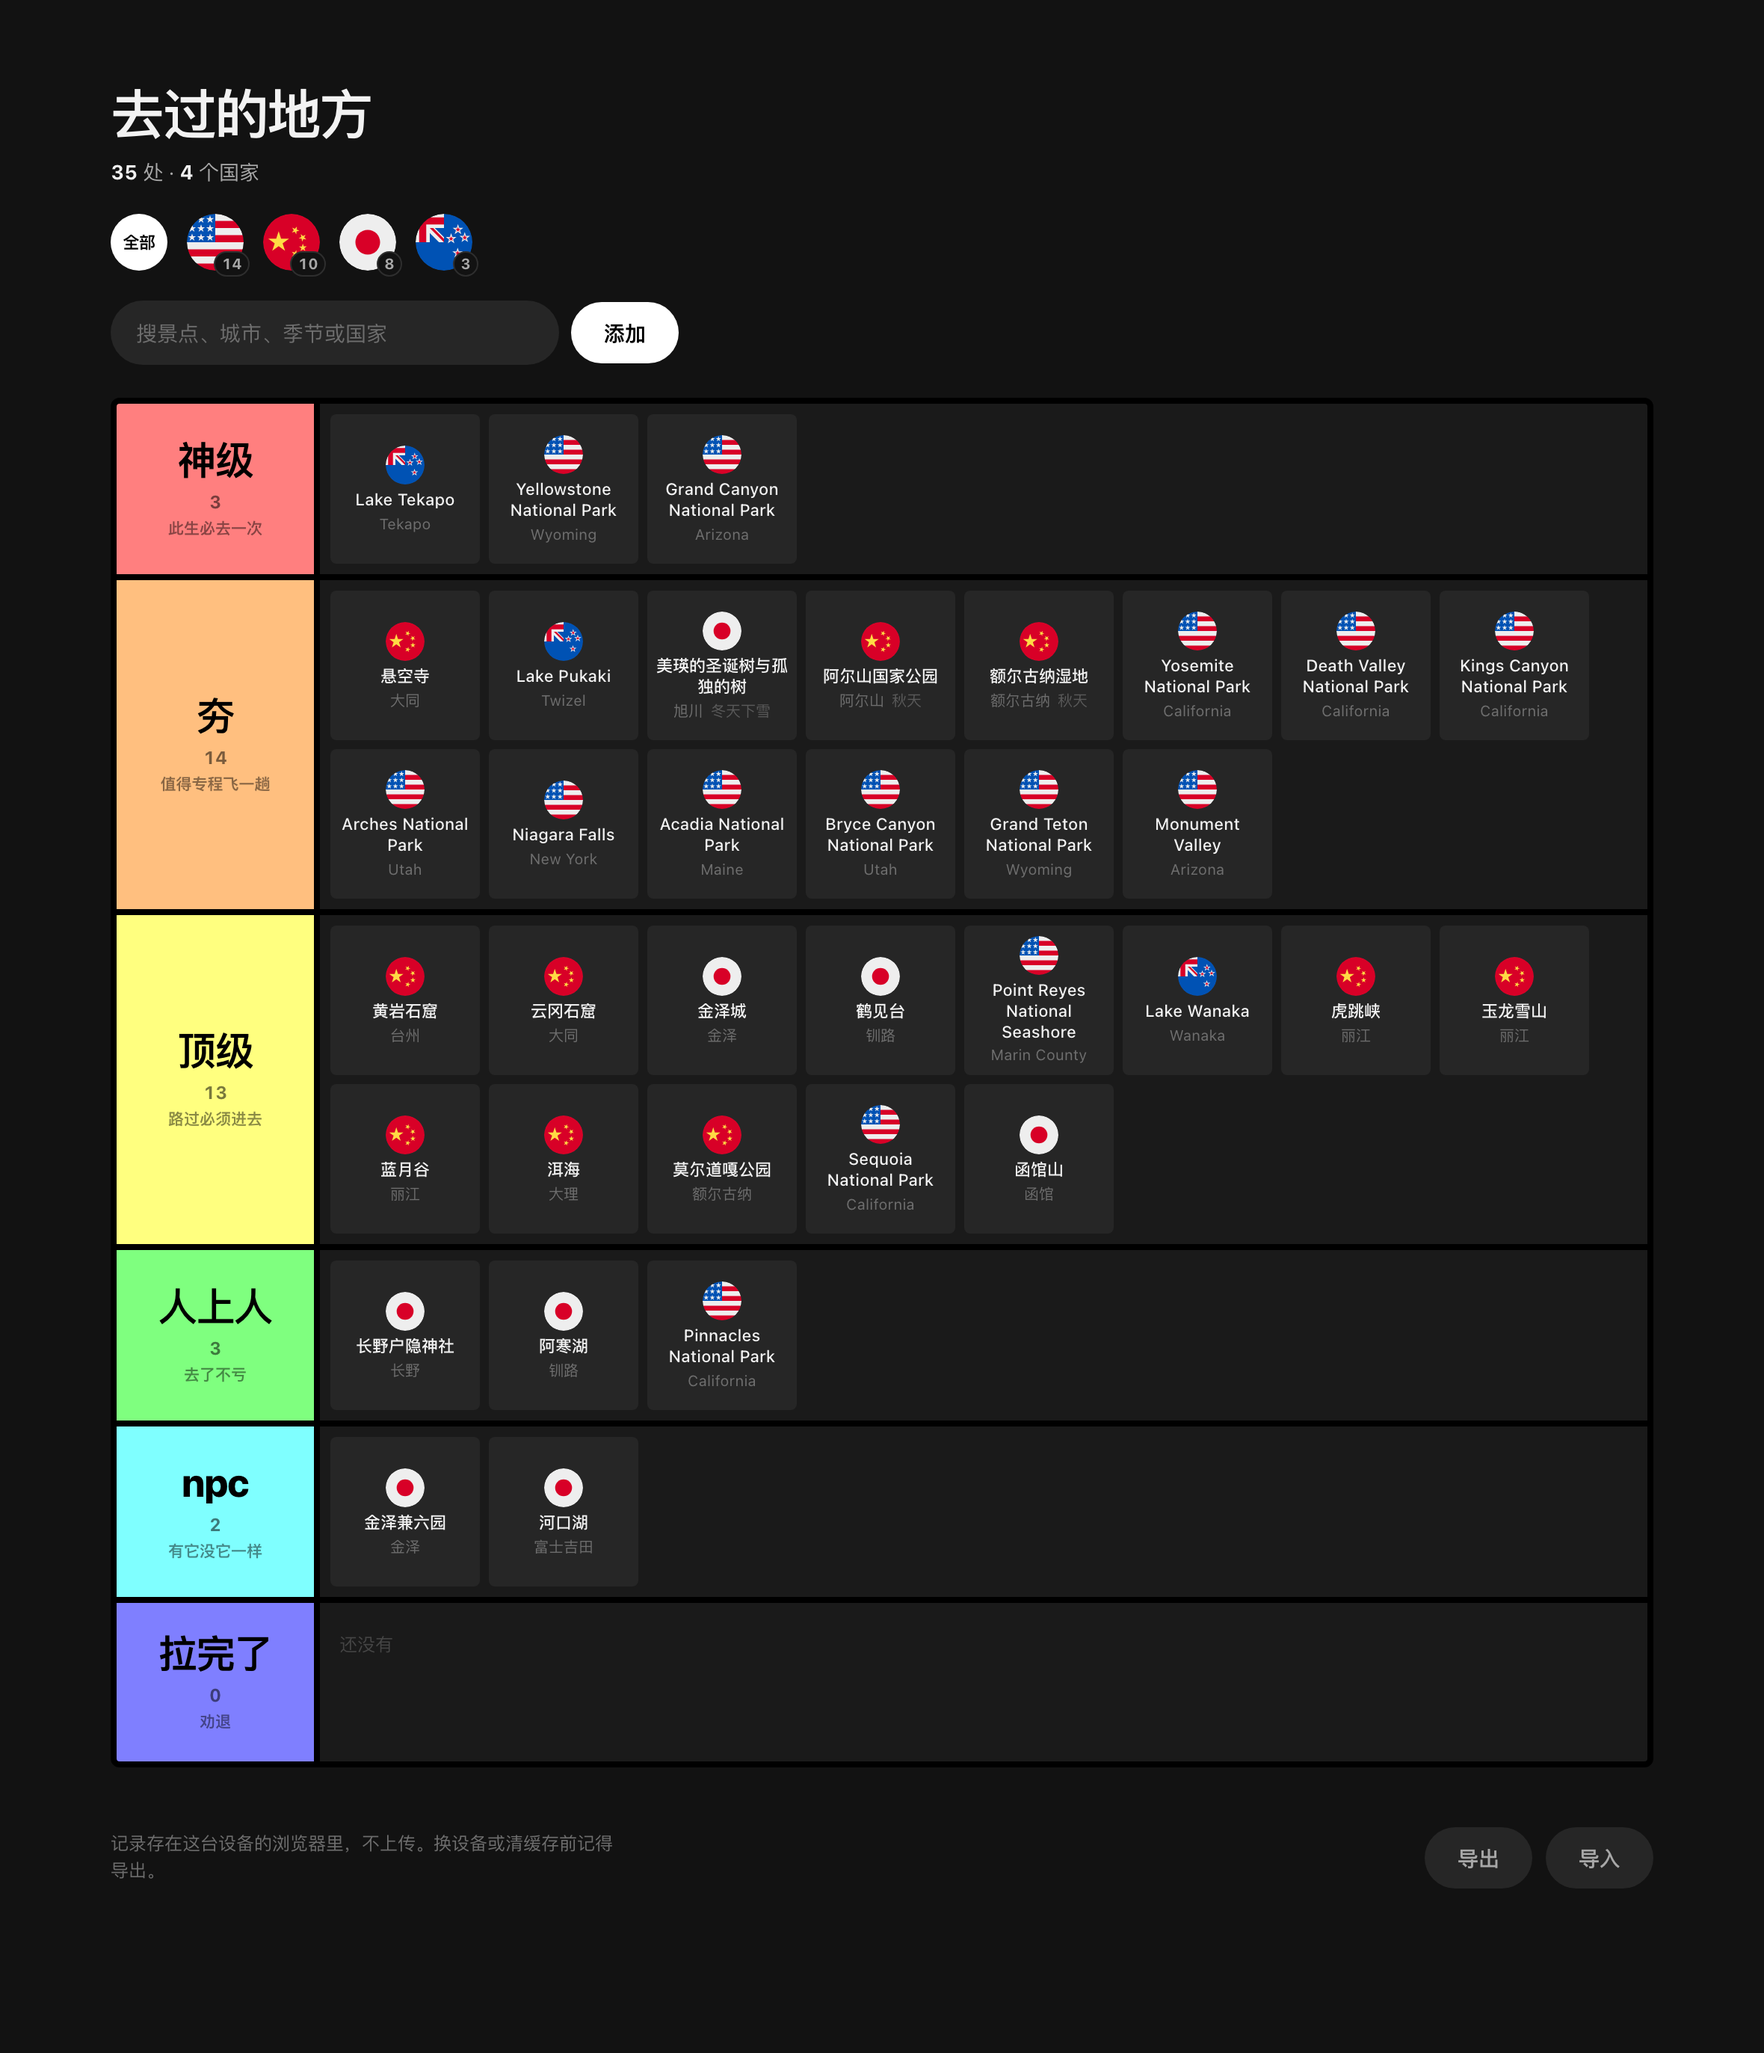
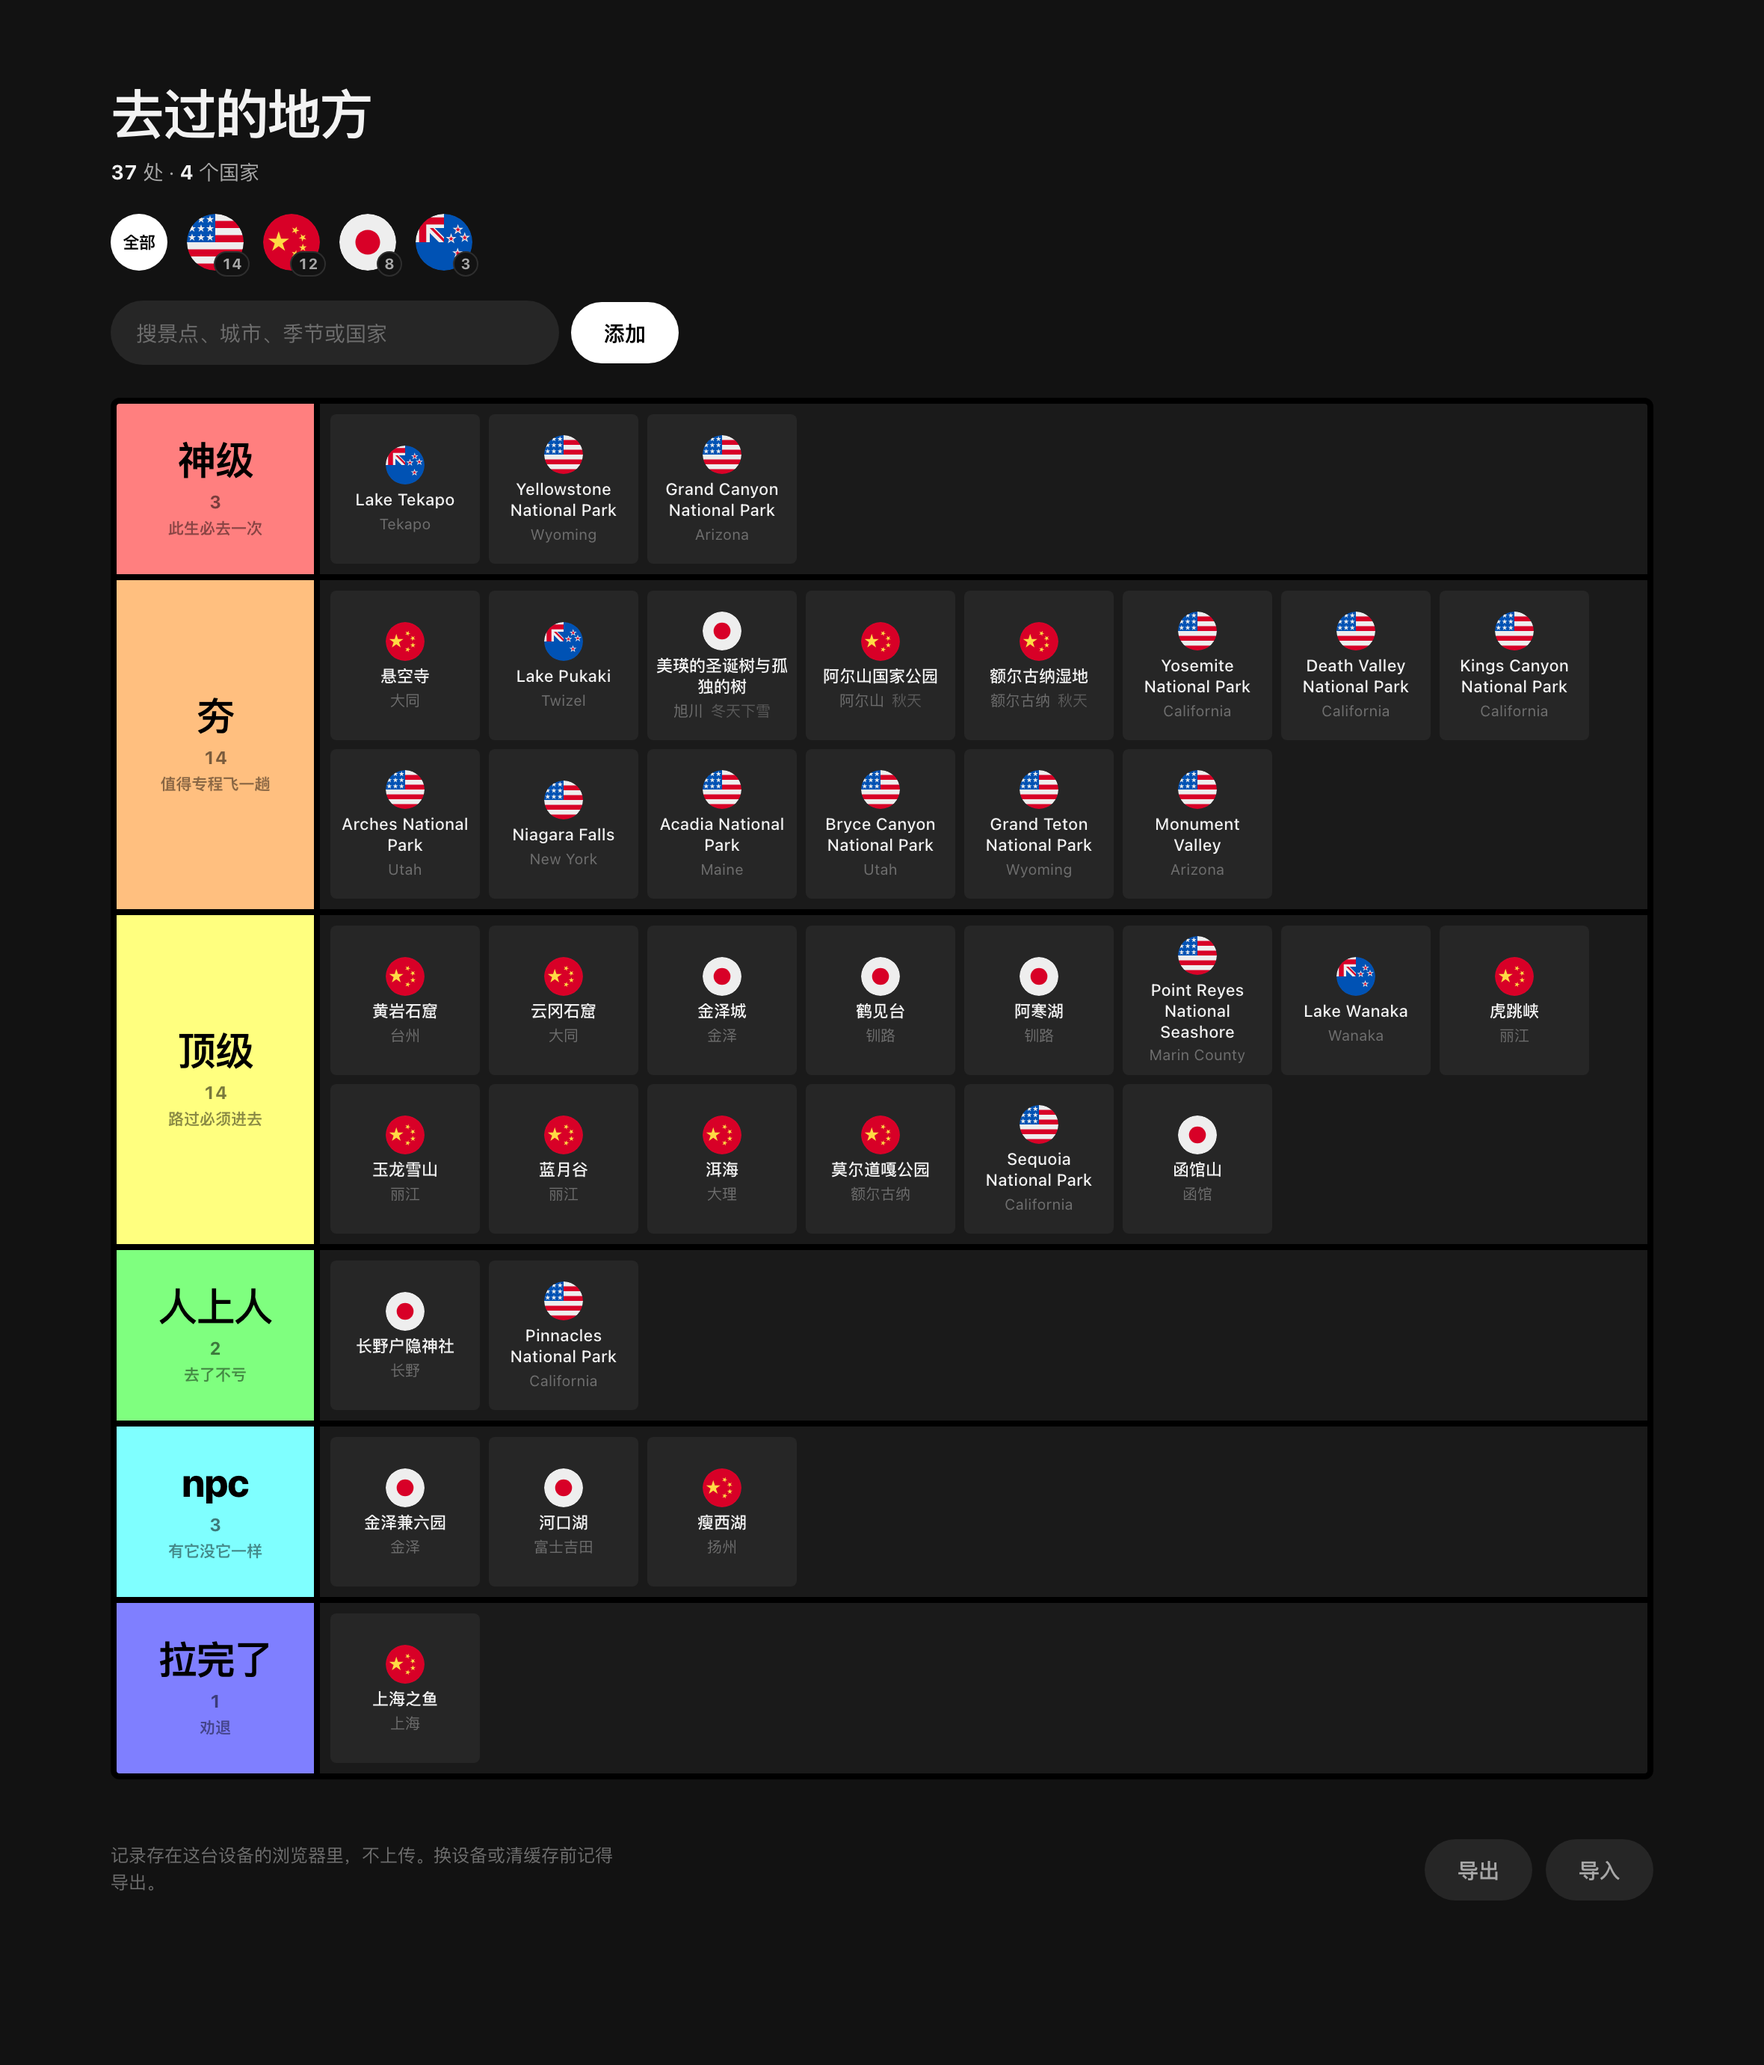
阿寒湖改判顶级，新增上海之鱼与瘦西湖
改判：
  阿寒湖  人上人 → 顶级

新增：
  拉完了  上海之鱼  上海  中国
  npc    瘦西湖    扬州  中国

共 37 处 / 4 个国家：美国 14、中国 12、日本 8、新西兰 3。
拉完了那档首次有内容，六档至此全部非空。

瘦西湖去掉了「扬州」前缀——城市栏已经写了扬州，名字里再带一次是重复。
长野户隐神社有同样的情况，待确认是否也收成「户隐神社」。

37 条在桌面与手机均无截断、无溢出，视口内国旗全部加载成功。测试 66 项全过。

diff --git a/spots.js b/spots.js
@@ -12,7 +12,7 @@ window.SPOTS = [
   { "name": "金泽兼六园"                   , "city": "金泽"        , "season": ""        , "country": "日本"  , "tier": "npc" },
   { "name": "河口湖"                       , "city": "富士吉田"    , "season": ""        , "country": "日本"  , "tier": "npc" },
   { "name": "鹤见台"                       , "city": "钏路"        , "season": ""        , "country": "日本"  , "tier": "top" },
-  { "name": "阿寒湖"                       , "city": "钏路"        , "season": ""        , "country": "日本"  , "tier": "ren" },
+  { "name": "阿寒湖"                       , "city": "钏路"        , "season": ""        , "country": "日本"  , "tier": "top" },
   { "name": "Point Reyes National Seashore", "city": "Marin County", "season": ""        , "country": "美国"  , "tier": "top" },
   { "name": "Lake Wanaka"                  , "city": "Wanaka"      , "season": ""        , "country": "新西兰", "tier": "top" },
   { "name": "Lake Pukaki"                  , "city": "Twizel"      , "season": ""        , "country": "新西兰", "tier": "hang" },
@@ -38,5 +38,7 @@ window.SPOTS = [
   { "name": "Grand Teton National Park"    , "city": "Wyoming"     , "season": ""        , "country": "美国"  , "tier": "hang" },
   { "name": "Monument Valley"              , "city": "Arizona"     , "season": ""        , "country": "美国"  , "tier": "hang" },
   { "name": "Pinnacles National Park"      , "city": "California"  , "season": ""        , "country": "美国"  , "tier": "ren" },
-  { "name": "函馆山"                       , "city": "函馆"        , "season": ""        , "country": "日本"  , "tier": "top" }
+  { "name": "函馆山"                       , "city": "函馆"        , "season": ""        , "country": "日本"  , "tier": "top" },
+  { "name": "上海之鱼"                     , "city": "上海"        , "season": ""        , "country": "中国"  , "tier": "la" },
+  { "name": "瘦西湖"                       , "city": "扬州"        , "season": ""        , "country": "中国"  , "tier": "npc" }
 ];
